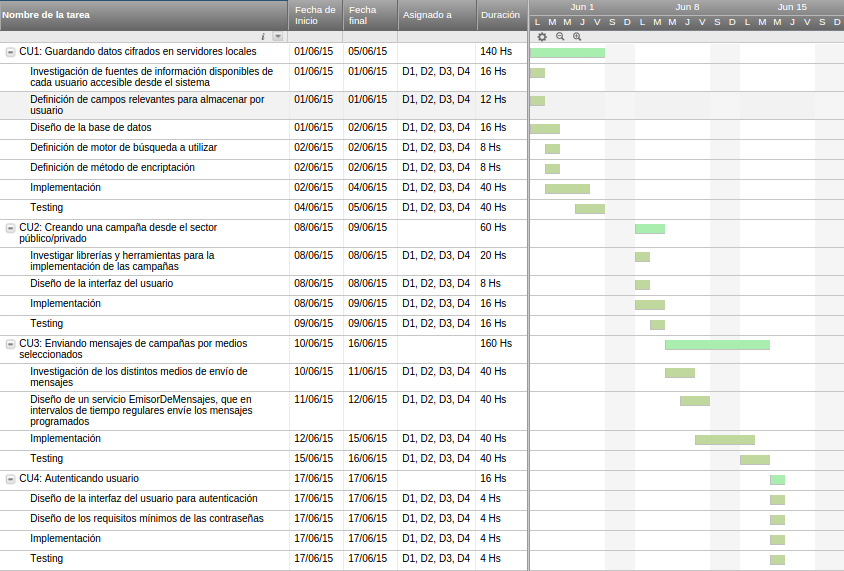
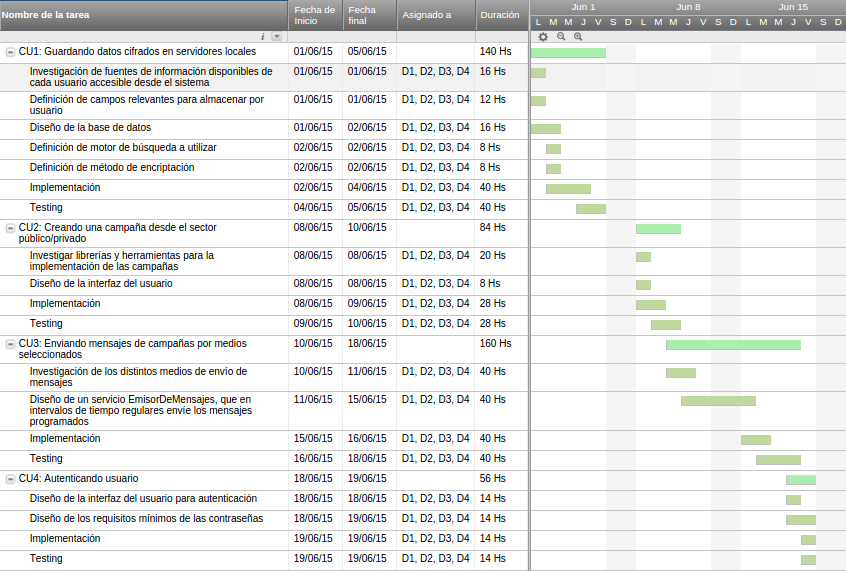
gantt y horas modificadas

diff --git a/tex/informe.tex b/tex/informe.tex
@@ -333,12 +333,12 @@ A continuación se detallan las tareas diagramadas para los casos de uso incluid
 
 \begin{tabular}{lp{13cm}l}
   \hline
-  CU2 & Creando una campaña desde el sector público/privado & 60h \\
+  CU2 & Creando una campaña desde el sector público/privado & 84h \\
   \hline
   T01 & Investigar librerías y herramientas para la implementación de las campañas & 20h \\
   T02 & Diseño de la interfaz del usuario & 8h \\
-  T03 & Implementación de CU2 & 16h \\
-  T04 & Testing de CU2 & 16h \\
+  T03 & Implementación de CU2 & 28h \\
+  T04 & Testing de CU2 & 28h \\
   \hline
 \end{tabular}
 
@@ -359,12 +359,12 @@ A continuación se detallan las tareas diagramadas para los casos de uso incluid
 
 \begin{tabular}{lp{13cm}l}
   \hline
-  CU4 & Autenticando usuario & 16h \\
+  CU4 & Autenticando usuario & 56h \\
   \hline
-  T01 & Diseño de la interfaz del usuario para autenticación & 4h \\
-  T02 & Diseño de los requisitos mínimos de las contraseñas & 4h \\
-  T02 & Implementación de CU4 & 4h \\
-  T03 & Testing de CU4 & 4h \\
+  T01 & Diseño de la interfaz del usuario para autenticación & 14h \\
+  T02 & Diseño de los requisitos mínimos de las contraseñas & 14h \\
+  T02 & Implementación de CU4 & 14h \\
+  T03 & Testing de CU4 & 14h \\
   \hline
 \end{tabular}
 
